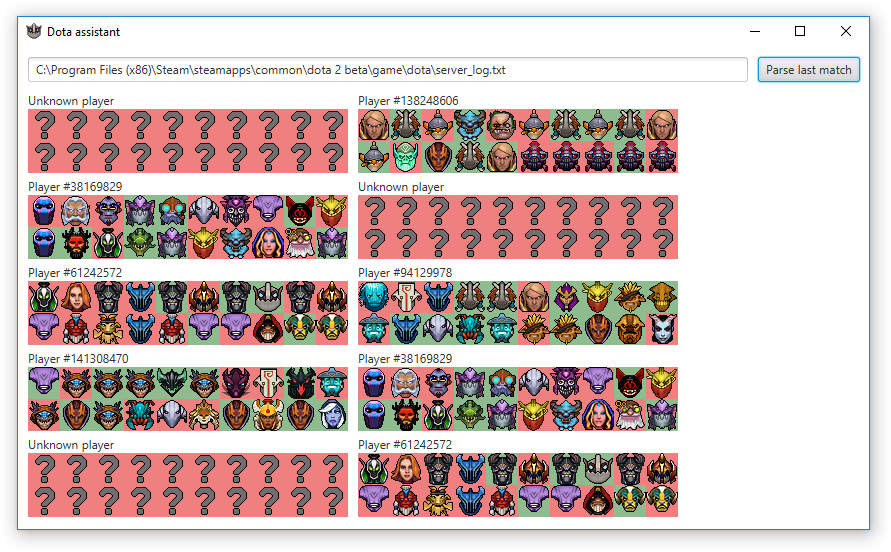
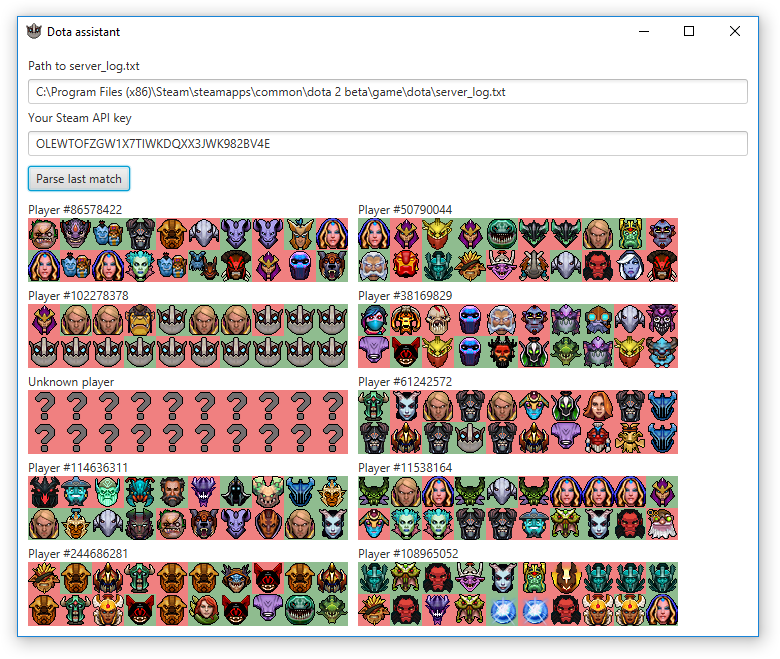
fixed pinguinson/dota-assistant#4

diff --git a/README.md b/README.md
@@ -10,4 +10,6 @@ Enter path to your Dota 2 server log, default path on Windows is:
 
 ``C:\Program Files (x86)\Steam\steamapps\common\dota 2 beta\game\dota\server_log.txt``
 
+Enter your Steam API key (if you don't have it yet, get it [here](https://steamcommunity.com/dev/apikey)).
+
 Click 'Parse last match' button, wait 2-3 seconds and see what heroes people in your latest lobby played in the last 20 games.
